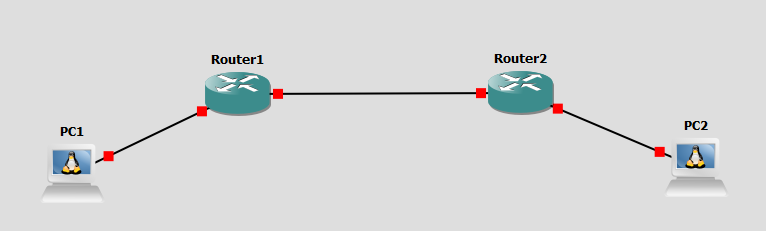
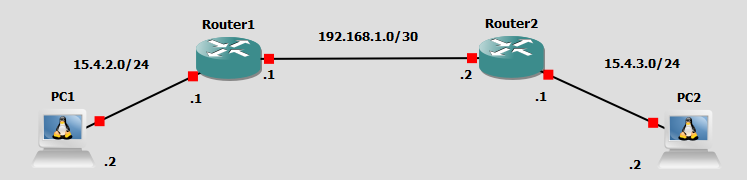
ospf konfigurace

diff --git a/app/templates/RoutingProtocols/ospf.html b/app/templates/RoutingProtocols/ospf.html
@@ -248,7 +248,7 @@
         </section>
         <section id="OSPFAreaTerminology" class="subSection">
             <h4>Základní OSPF Area Terminologie</h4>
-            <img src="../static/styles/images/Routing/OSPFAREA.png" alt="OSPFarea">
+            <img src="../static/styles/images/Routing/OSPFAREA.png" alt="OSPFarea" class="configImage">
             <ul>
                 <li class="req">Area Border Router (ABR) - Router, jehož jeden interface je připojený k backbone area a druhý k nonbackbone area</li>
                 <li class="req">Backbone router - router, který je připojený v backbone area (sem se počítají i ABR)</li>
@@ -303,49 +303,64 @@
         </section>
     </section>
     <section id="OSPFConfiguration">
-        <h3>OSPF konfigurace</h3>
-        <section class="subSection">
-            <h5>Přechod do OSPF módu: </h5>
-            <pre>Router(config)#router ospf {*process_ID} //*Nemusí být shodné napříč routery</pre>
-            <h5>Propagace subnet: </h5>
-            <pre>Router(config-router)#network {IPv4} {Wildcard_Mask} area {area}</pre>
-            <h5>Vypnutí OSPF Messages na daný interface: </h5>
-            <pre>Router(config-router)#passive-interface {interface}</pre>
-            <h5>Zapnutí propagace default route: </h5>
-            <pre>Router(config-router)#default-information originate</pre>
-            <h5>Změna administrative distance: </h5>
-            <pre>Router(config-router)#distance {1-255}</pre>
-            <h5>Změna reference bandwidth: </h5>
-            <pre>Router(config-router)#auto-cost reference-bandwidth {1-4294967*} //*v mbps</pre>
-            <h5>Manuální nastavení router-id: </h5>
-            <pre>Router(config-router)#router-id {A.B.C.D}</pre>
-            <h5>Manuální nastavení cost na daném interface: </h5>
-            <pre>Router(config-if)ip ospf cost {1-65535}</pre>
-            <h5>Nastavení ospf priority na daném interface: </h5>
-            <pre>Router(config-if)ip ospf priority {0-255}</pre>
-            <h5>Nastavení ospf hello interval na daném interface: </h5>
-            <pre>Router(config-if)ip ospf hello-interval {1-65535*} //*v sekundách</pre>
-            <h5>Nastavení ospf dead interval na daném interface: </h5>
-            <pre>Router(config-if)ip ospf dead-interval {1-65535*}  //*v sekundách</pre>
-            <h5>Zapnutí autentizace: </h5>
-            <pre>Router(config-if)ip ospf authentication</pre>
-            <h5>Nastavení klíče k autentizaci: </h5>
-            <pre>Router(config-if)ip ospf authentication-key {slovo*} //maximálně 8 znaků</pre>
-            <h5>Nastavení message-digest-key (MD5): </h5>
-            <pre>Router(config-if)ip ospf message-digest-key {1-255} md5 {slovo*} //maximálně 16 znaků</pre>
-            <h5>Použití message digest key jako klíče k autentizaci: </h5>
-            <pre>Router(config-if)ip ospf authentication message-digest</pre>
-            <h5>Nastavení network typu - point-to-point - na daném interface: </h5>
-            <pre>Router(config-if)ip ospf network point-to-point</pre>
-            <h5>Zobrazení LSDB: </h5>
-            <pre>Router#show ip ospf database</pre>
-            <h5>Zobrazení ospf na daném interface: </h5>
-            <pre>Router#show ip ospf interface {interface}</pre>
-            <h5>Zobrazení ospf neighbors: </h5>
-            <pre>Router#show ip ospf neighbor</pre>
-            <h5>Troubleshooting příkaz: </h5>
-            <pre>Router#debug ip ospf {adj | events}</pre>
-        </section>
+        <h3>Základní OSPF konfigurace</h3>
+        <p>Úkol: Nastav alespoň co se týče základních věcí ospf v této síti: </p>
+        <img src="../static/styles/images/Routing/OSPFKonfigurace.png" alt="OSPF Konfigurace" class="configImage">
+        <p>Nejdříve na R1 nastavíme nastavíme ip adresy na daných interfacích: </p>
+        <pre>
+R1(config)#interface fa0/1
+R1(config-if)#ip address 15.4.2.1 255.255.255.0
+R1(config-if)#no shutdown
+R1(config-if)#interface g0/0
+R1(config-if)#ip address 192.168.1.1 255.255.255.252 
+R1(config-if)#no shutdown</pre>
+        <p>To samé uděláme i na R2</p>
+        <pre>
+R2(config)#interface fa0/1
+R2(config-if)#ip address 15.4.3.1 255.255.255.0
+R2(config-if)#no shutdown
+R2(config-if)#interface g0/0
+R2(config-if)#ip address 192.168.1.2 255.255.255.252
+R2(config-if)#no shutdown</pre>
+<p>Nyní je třeba nastavit samotné ospf.</p>
+<p>To se dělá pomocí network/ip ospf příkazu, který routeru říká, který interface bude zahrnut v rámci ospf procesu a která area bude jemu přiřazená.</p>
+<p>Příkaz se zadává v ospf módu a ip ospf na interface.</p>
+<p>Network příkaz v ospf módu:</p>
+<pre>
+R1(config)#router ospf 1
+R1(config-router)#network 192.168.1.0 0.0.0.3 area 0
+R1(config-router)#network 15.4.2.0 0.0.0.255 area 0
+</pre>
+<p>IP OSPF příkaz na interface: </p>
+<pre>
+R2(config)#interface g0/0
+R2(config-if)#ip ospf 1 area 0
+R2(config)#interface fa0/1
+R2(config-if)#ip ospf 1 area 0
+</pre>
+<p>Dobrou praxí je také nastavit na interfacích fa0/1 na obou routerech pasivní interface - zastavení ospf procesu na těchto interfacích.</p>
+<p>Tento příkaz se zadává v ospf módu</p>
+<pre>
+R1(config-router)#passive-interface fa0/1
+</pre>
+<pre>
+R2(config-router)#passive-interface fa0/1
+</pre>
+<p>Dále můžeme nastavit například autentizaci, ta slouží k tomu, aby daný router neudělal sousedský vztah s kýmkoliv s kým bude tvořit podmínky.</p>
+<p>Tato autentizace může být buď v plaintextu nebo v md5.</p>
+<p>Obecně doporučuji používat spíš tu md5.</p>
+<p>Nastavení autentizace na R1:</p>
+<pre>
+R1(config)#interface g0/0
+R1(config-if)#ip ospf message-digest-key 1 md5 heslo
+R1(config-if)#ip ospf authentication message-digest
+</pre>
+<p>Nastavení autentizace na R2:</p>
+<pre>
+R2(config)#interface g0/0
+R2(config-if)#ip ospf message-digest-key 1 md5 heslo
+R2(config-if)#ip ospf authentication message-digest
+</pre>
     </section>
     <section id="prehledPrikazu">
         <h3>Přehled příkazů (PT)</h3>
@@ -417,12 +432,12 @@
                         <td>interface</td>
                     </tr>
                     <tr>
-                        <td>ip ospf authentication-key {slovo*}</th>
+                        <td>ip ospf authentication-key {slovo}</th>
                         <td>Nastaví plaintext autentizační key</td>
                         <td>interface</td>
                     </tr>
                     <tr>
-                        <td>ip ospf message-digest-key {1-255} md5 {slovo*}</th>
+                        <td>ip ospf message-digest-key {1-255} md5 {slovo}</th>
                         <td>Nastaví md5 autentizační key</td>
                         <td>interface</td>
                     </tr>
@@ -434,6 +449,11 @@
                     <tr>
                         <td>ip ospf network point-to-point</th>
                         <td>Nastaví point-to-point network typ</td>
+                        <td>interface</td>
+                    </tr>
+                    <tr>
+                        <td>ip ospf {process_id} area {area}</th>
+                        <td>Aktivuje ospf na daném interface</td>
                         <td>interface</td>
                     </tr>
                     <tr>
